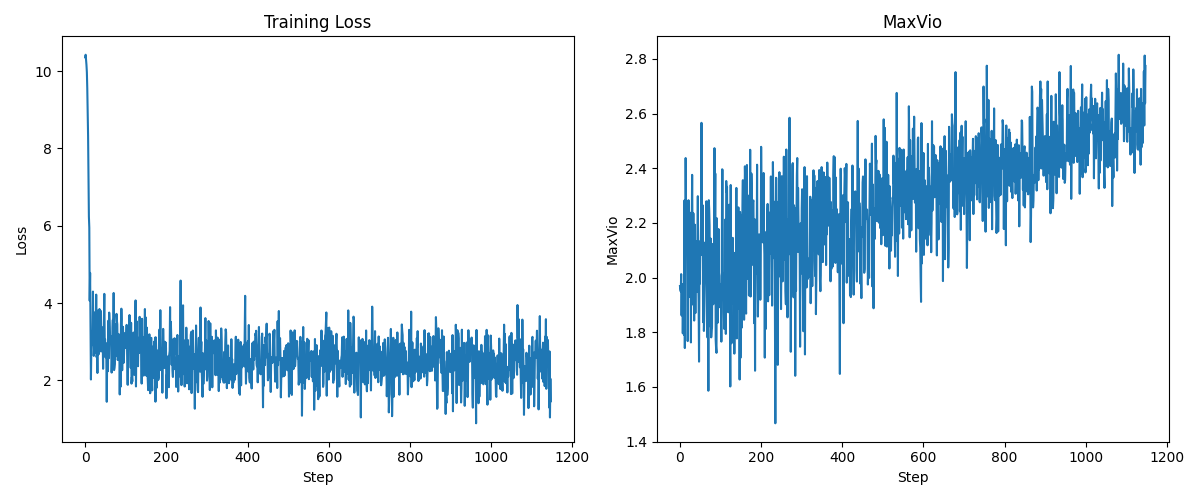
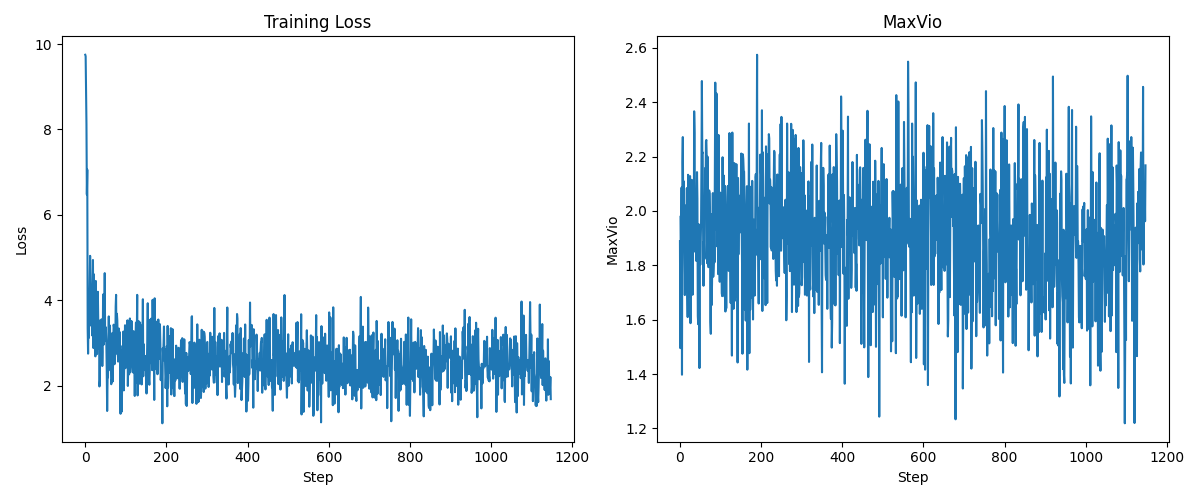
experiments

diff --git a/main.py b/main.py
@@ -126,7 +126,7 @@ def calculate_auxiliary_loss(gate_probs):
     aux_loss = torch.sum(f_i * P_i)
     return aux_loss
 
-def train(model, train_dataset, tokenizer, use_aux_loss=False, num_epochs=1, batch_size=32, learning_rate=1e-3, update_rate=1e-3, aux_loss_coeff=0.01):
+def train(model, train_dataset, tokenizer, use_aux_loss=False, num_epochs=1, batch_size=32, learning_rate=1e-3, update_rate=1e-5, aux_loss_coeff=0.01):
     device = torch.device("cuda" if torch.cuda.is_available() else "cpu")
     model.to(device)
     
